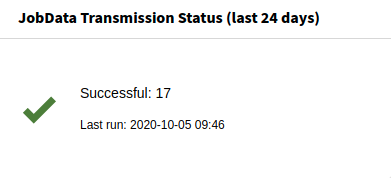
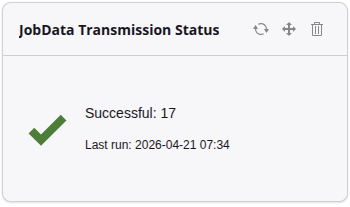
Remove outdated screenshot from docs

diff --git a/Documentation/Configuration/Index.rst b/Documentation/Configuration/Index.rst
@@ -46,14 +46,14 @@ The extension ships some TypoScript code which needs to be included.
 
 #. Switch to the root page of your site.
 
-#. Switch to the :guilabel:`Site Management > TypoScript` and edit
+#. Switch to the :guilabel:`Sites > TypoScript` and edit
    :guilabel:`Edit TypoScript Record` in the upper menu bar.
 
-#. Press the link :guilabel:`Edit the whole template record` and switch to the
+#. Press the link :guilabel:`Edit the whole TypoScript record` and switch to the
    tab :guilabel:`Advanced Options`.
 
 #. Select :guilabel:`JobRouter Data` from the
-   available items at the field :guilabel:`Include TypoScript sets:`
+   available items at the field :guilabel:`Include TypoScript sets`
 
 .. figure:: /Images/include-typoscript-sets.png
    :alt: Include static TypoScript

diff --git a/Documentation/Editor/Index.rst b/Documentation/Editor/Index.rst
@@ -16,7 +16,7 @@ Content of JobData tables that are synchronised with the :ref:`simple type
 <module-create-table-link-simple>` can be easily displayed on the website
 with the content element `JobData Table`.
 
-Go to the :guilabel:`Web` > :guilabel:`Page` module and select the desired page
+Go to the :guilabel:`Content > Layout` module and select the desired page
 in the page tree. Click on :guilabel:`+ Content` in the column and position you
 want to insert. To add the content element, select the :guilabel:`Special
 elements` tab in the :guilabel:`Create new content element` wizard and click on
